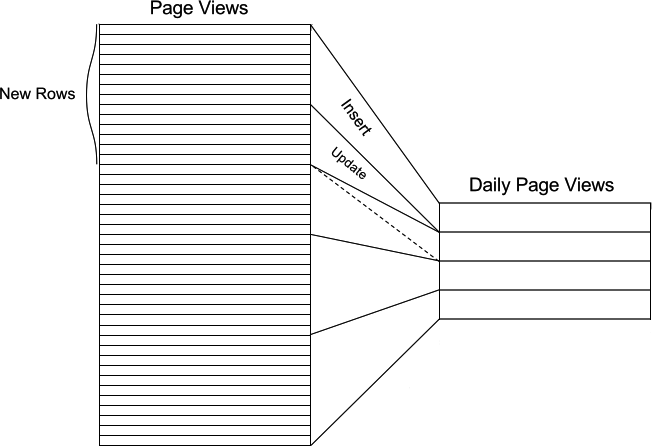
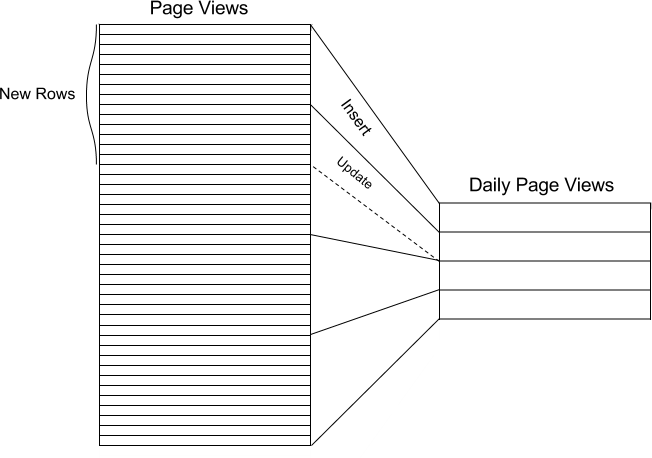
Rearrange topics, use tenant id
link to external colocation section

The colocation section, or at least the kernel for it, exists in another PR

diff --git a/dist_tables/dml.rst b/dist_tables/dml.rst
@@ -43,62 +43,69 @@ $$$$$$$$$$$$$$$$$$$$$$
 
 Citus is commonly used to scale out event data pipelines and populate real-time dashboards. These applications require fast queries across predefined aggregations of incoming data. One way to make these queries fast is calculating and saving aggregates ahead of time. This is called "rolling up" the data and it avoids the cost of processing raw data at run-time. As an extra benefit, rolling up timeseries data into hourly or daily statistics can also save space. Old data may be deleted when its full details are no longer needed and aggregates suffice.
 
-It is important to be able to update rollups *incrementally*, that is, without re-scanning all data. Both the rolling up and updating can be accomplished with :code:`INSERT INTO ... SELECT`, whereby the results of a select query are inserted into a table. A full reference for this feature is available in the PostgreSQL `docs <https://www.postgresql.org/docs/current/static/sql-insert.html>`_. It works well on Citus because it is parallelizable under certain conditions. We'll see more about that later.
-
-First some basics. INSERT INTO SELECT uses the results of a select query to populate a table. For instance consider a simple select statement which counts the number of web page views per page per day.
+INSERT INTO SELECT uses the results of a select query to populate a table. While PostgreSQL supports inserting from any table into any other, Citus requires the source and destination table to be `co-located <colocation_groups>`_.  To see the insert in action, consider a simple select statement which counts the number of web page views per page per day.
 
 .. code-block:: postgres
 
-  SELECT view_time::date AS day, page_id, count(*) AS view_count
+  -- Assuming the existence of a "page_views" table
+
+  SELECT view_time::date AS day, site_id, url,
+         count(*) AS view_count
   FROM page_views
-  GROUP BY view_time::date, page_id;
+  GROUP BY view_time::date, site_id, url;
 
 We can create a rollup table :code:`daily_page_views` to hold these results and fill it with the results of the previous query:
 
 .. code-block:: postgres
 
   CREATE TABLE daily_page_views (
+    site_id int,
     day date,
-    page_id int,
+    url text,
     view_count bigint,
-    primary key (day, page_id)
+    primary key (site_id, day, url)
   );
 
-  INSERT INTO daily_page_views (day, page_id, view_count)
+  INSERT INTO daily_page_views (day, site_id, url, view_count)
     -- this is our original select query
-    SELECT view_time::date AS day, page_id, count(*) AS view_count
+    SELECT view_time::date AS day, site_id, url,
+           count(*) AS view_count
     FROM page_views
-    GROUP BY view_time::date, page_id;
+    GROUP BY view_time::date, site_id, url;
 
-PostgreSQL's upsert feature can incrementally update certain parts of a rollup table. For instance suppose we have already rolled up visits happening before a certain timestamp (we'll call it :code:`$1`) and want to update the rollups to include more recent views. To do this we add a WHERE clause to select visits after the timestamp and specify "ON CONFLICT" to adjust any daily view aggregates the new data affects. The latter is PostgreSQL's technique for doing `upserts <https://www.postgresql.org/docs/9.5/static/sql-insert.html#SQL-ON-CONFLICT>`_.
+These are the basics of using INSERT INTO SELECT on a single node database. Using it effectively in Citus for real-time analytics requires more understanding of Citus' distributed query execution. Citus implements INSERT INTO SELECT by pushing down the select query to each shard. When the destination table for inserted values is distributed by analogous column as the table being selected then the inserting and selecting can be "co-located" together on each shard. This minimizes network traffic between nodes and allows highly parallel execution.
 
-.. code-block:: postgres
+To run rollups on Citus ensure that:
 
-  INSERT INTO daily_page_views (day, page_id, view_count)
-    SELECT view_time::date AS day, page_id, count(*) AS view_count
-    FROM page_views
-    WHERE view_time >= $1
-    GROUP BY view_time::date, page_id
-    ON CONFLICT (day, page_id) DO UPDATE SET
-      view_count = daily_page_views.view_count + EXCLUDED.view_count;
-
-.. image:: ../images/rollup.png
-
-These are the basics of using INSERT INTO SELECT on a single node database. Using it effectively in Citus for real-time analytics requires more understanding of Citus' distributed query execution. Citus implements INSERT INTO SELECT by pushing down the select query to each shard. When the destination table for inserted values is distributed by an analogous column as the table being selected then the inserting and selecting can be "co-located" together on each shard. This minimizes network traffic between nodes and allows highly parallel execution.
-
-For fast execution ensure that:
-
-- The tables queried and inserted are distributed on analogous columns
+- The tables queried and inserted are distributed by analogous columns
 - The select query includes the distribution column
 - The insert statement includes the distribution column
 - GROUP BY includes the distribution column
 
-The example query shown above will work well if :code:`page_views` and :code:`daily_page_views` are distributed by :code:`page_id` column. Distributing our data by page allows rollup to scale linearly with the number of cores.
+The example query shown above will work well if :code:`page_views` and :code:`daily_page_views` are distributed by :code:`site_id` column. Distributing our data per site allows rollup to scale as new sites are added to the system.
 
 .. code-block:: postgres
 
-  SELECT create_distributed_table('page_views', 'page_id');
-  SELECT create_distributed_table('daily_page_views', 'page_id');
+  SELECT create_distributed_table('page_views', 'site_id');
+  SELECT create_distributed_table('daily_page_views', 'site_id');
+
+Rollups keep statistics queries fast but do require upkeep. New items must be periodically added or existing entries updated. In order that this periodic update be fast we need to do it *incrementally*, meaning without having to re-scan the entire underlying dataset (as, for instance, a materialized view would require). PostgreSQL's upsert feature is what we need, and it even parallelizes in Citus.
+
+.. image:: ../images/rollup.png
+
+Suppose we have already rolled up visits happening before a certain timestamp (we'll call it :code:`$1`) and want to update the rollups to include more recent views. To do this we add a WHERE clause to select visits after the timestamp, and specify "ON CONFLICT" to adjust any daily view aggregates the new data affects. The latter is PostgreSQL's technique for doing `upserts <https://www.postgresql.org/docs/9.5/static/sql-insert.html#SQL-ON-CONFLICT>`_.
+
+.. code-block:: postgres
+
+  INSERT INTO daily_page_views (day, site_id, url, view_count)
+    -- this is our original select query
+    SELECT view_time::date AS day, site_id, url,
+           count(*) AS view_count
+    FROM page_views
+    WHERE view_time >= $1
+    GROUP BY view_time::date, site_id, url;
+    ON CONFLICT (day, url, site_id) DO UPDATE SET
+      view_count = daily_page_views.view_count + EXCLUDED.view_count;
 
 There are a few things to be aware of when running distributed INSERT INTO SELECTs. First, Citus takes locks to ensure consistency when the :ref:`replication_factor` is greater than one. Specifying :code:`SET LOCAL citus.all_modifications_commutative TO on;` avoids strict locking and provides better throughput. It is only prudent to enable this setting when inserts are known to have no effect on an ongoing rollup.
 
